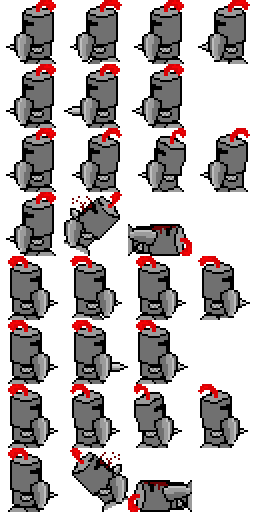
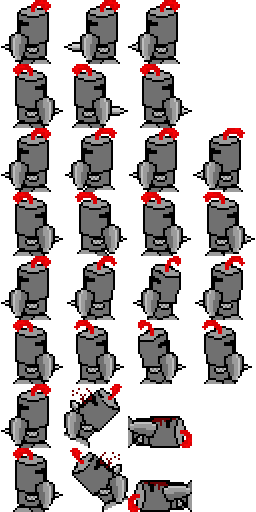
Can pick up and exchange the different weapons.

diff --git a/src/weapons/Sword.java b/src/weapons/Sword.java
@@ -5,6 +5,8 @@ import org.newdawn.slick.SlickException;
 import org.newdawn.slick.SpriteSheet;
 import org.newdawn.slick.geom.Rectangle;
 
+import dudes.Player;
+
 public class Sword extends Weapon {
 
 	public Sword(float x, float y) {
@@ -21,14 +23,10 @@ public class Sword extends Weapon {
 	@Override
 	public void init() throws SlickException {
 		super.init();
-		//weaponSheet = new SpriteSheet("Assets/Weapons/Sword/sheet.png", 64, 64);
-		//defaultSprite = weaponSheet.getSprite(0, 0);		
-		//initAnimations();
-		weaponSheet = new SpriteSheet("Assets/Weapons/Fist/player0Fist.png", 64, 64);
+		weaponSheet = new SpriteSheet("Assets/Weapons/Sword/player" + ((Player)owner).playerID + "Sword.png", 64, 64);
 		defaultSprite[0] = weaponSheet.getSprite(0, 5);
 		defaultSprite[1] = weaponSheet.getSprite(0, 4);
 		initAnimations();
-		groundSprite = new Image("Assets/Weapons/Sword/sword.png");
 	}
 	
 	@Override
@@ -49,5 +47,10 @@ public class Sword extends Weapon {
 		else{
 			return false;
 		}
+	}
+	
+	@Override
+	public void createGroundSprite() throws SlickException {
+		groundSprite = new Image("Assets/Weapons/Sword/sword.png");
 	}
 }

diff --git a/src/weapons/Fist.java b/src/weapons/Fist.java
@@ -5,6 +5,7 @@ import org.newdawn.slick.SpriteSheet;
 import org.newdawn.slick.geom.Rectangle;
 
 import dudes.Dude;
+import dudes.Player;
 
 public class Fist extends Weapon {
 	
@@ -25,8 +26,7 @@ public class Fist extends Weapon {
 	@Override
 	public void init() throws SlickException {
 		super.init();
-		//weaponSheet = new SpriteSheet("Assets/Weapons/Fist/player" + ((Player)owner).playerID + "Fist.png", 64, 64);
-		weaponSheet = new SpriteSheet("Assets/Weapons/Fist/player0Fist.png", 64, 64);
+		weaponSheet = new SpriteSheet("Assets/Weapons/Fist/player" + ((Player)owner).playerID + "Fist.png", 64, 64);
 		defaultSprite[0] = weaponSheet.getSprite(0, 5);
 		defaultSprite[1] = weaponSheet.getSprite(0, 4);
 		initAnimations();

diff --git a/src/states/TownState.java b/src/states/TownState.java
@@ -3,6 +3,7 @@ package states;
 import java.util.ArrayList;
 
 import org.newdawn.slick.GameContainer;
+import org.newdawn.slick.Image;
 import org.newdawn.slick.SlickException;
 import org.newdawn.slick.state.StateBasedGame;
 import org.newdawn.slick.tiled.TiledMap;
@@ -79,8 +80,8 @@ public class TownState extends AreaState {
 		ArrayList<Weapon> o = new ArrayList<Weapon>();
 		Weapon k1 = new Sword(1200f, 550f);
 		Weapon k2 = new Bear(1300f, 550f);
-		k1.init();
-		k2.init();
+		k1.createGroundSprite();
+		k2.createGroundSprite();
 		o.add(k1);
 		o.add(k2);
 		return o;

diff --git a/src/weapons/KnightKnife.java b/src/weapons/KnightKnife.java
@@ -29,9 +29,9 @@ public class KnightKnife extends Weapon{
 	@Override
 	public void init() throws SlickException {
 		super.init();
-		weaponSheet = new SpriteSheet("Assets/Weapons/KnightKnife/sheet.png", 64, 64);
-		defaultSprite[0] = weaponSheet.getSprite(0, 0);
-		defaultSprite[1] = weaponSheet.getSprite(0, 1);
+		weaponSheet = new SpriteSheet("Assets/Weapons/KnightKnife/new_sheet.png", 64, 64);
+		defaultSprite[0] = weaponSheet.getSprite(0, 5);
+		defaultSprite[1] = weaponSheet.getSprite(0, 4);
 		initAnimations();
 	}
 	

diff --git a/src/weapons/Bear.java b/src/weapons/Bear.java
@@ -25,7 +25,6 @@ public class Bear extends Weapon {
 		defaultSprite[0] = weaponSheet.getSprite(0, 5);
 		defaultSprite[1] = weaponSheet.getSprite(0, 4);	
 		initAnimations();
-		groundSprite = new Image("Assets/Weapons/Bear/bearclaw.png");
 	}
 	
 	@Override
@@ -48,5 +47,9 @@ public class Bear extends Weapon {
 			return false;
 		}
 	}
-
+	
+	@Override
+	public void createGroundSprite() throws SlickException {
+		groundSprite = new Image("Assets/Weapons/Bear/bearclaw.png");
+	}
 }

diff --git a/src/states/AreaState.java b/src/states/AreaState.java
@@ -186,6 +186,7 @@ public class AreaState extends BasicGameState {
 						}
 						p.weapon = w;
 						w.assignOwner(p);
+						w.init();
 						remove.add(w);
 												
 					} 

diff --git a/src/weapons/Weapon.java b/src/weapons/Weapon.java
@@ -104,4 +104,8 @@ public abstract class Weapon {
 			attacks.remove(attack);
 		}
 	}
+	
+	public void createGroundSprite() throws SlickException {
+		groundSprite = null;
+	}
 }
